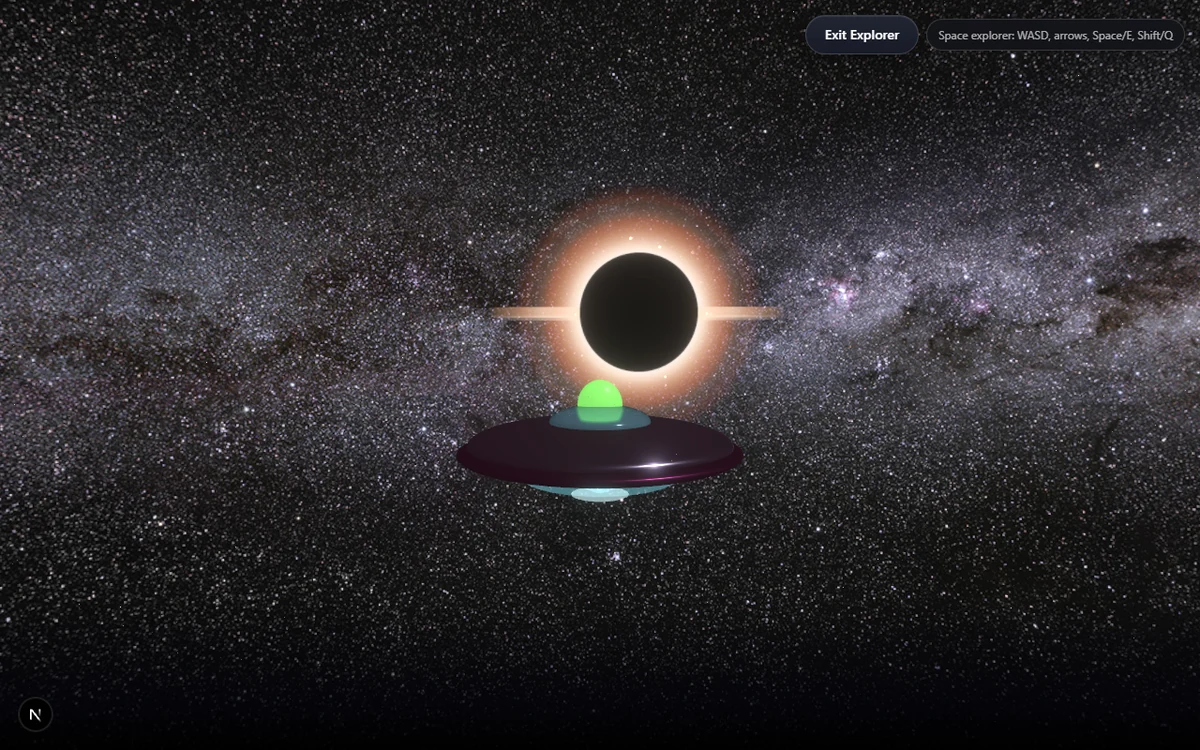
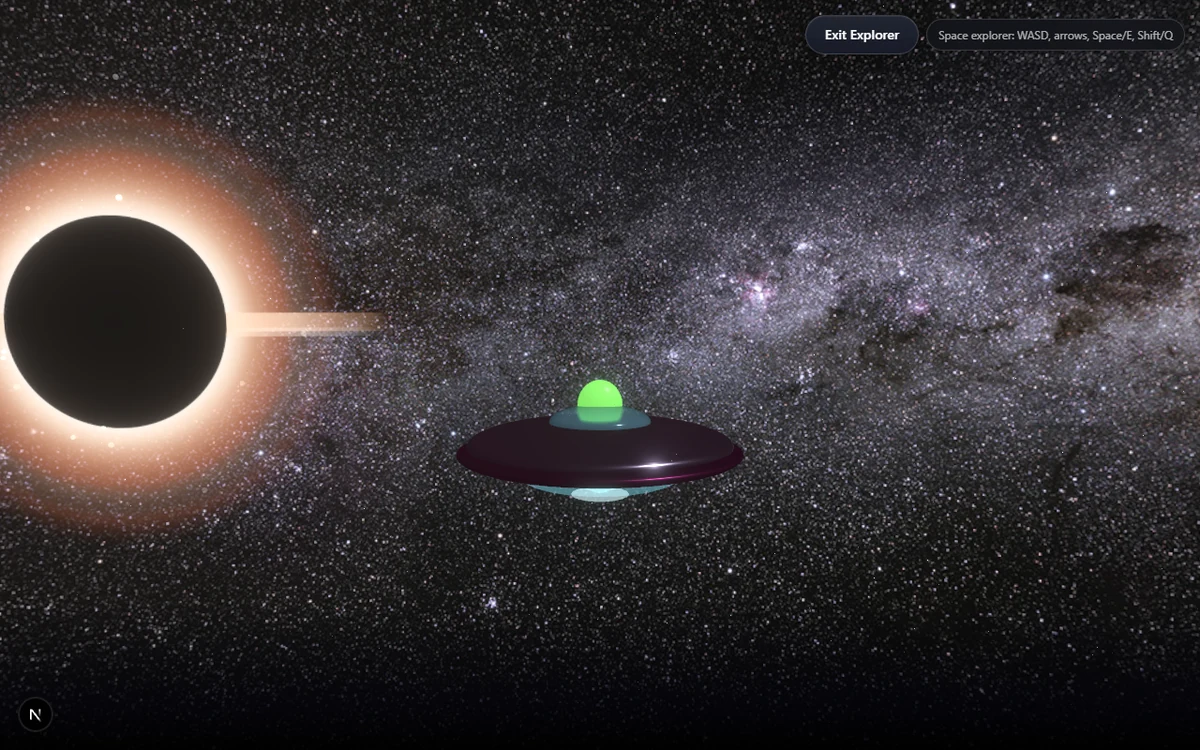
Calm the diagonals, drop the spread, widen the PROJECTS gaps, refresh Cloud Island
- 네 귀퉁이 카드가 대각으로 멀리 튀어 보여 옆 카드보다 덜 벌린다.
  펼친 덩어리를 통째로 아래로 내려 위쪽 빨간 띠와 96px 떨어진다.
- PROJECTS 섹션 위아래 여백을 84 / 96 으로 벌렸다.
- Cloud Island 네 장을 서로 다른 화면으로 갈았다. 겹치던 자리를
  행성을 눌러 그 계정의 스택과 카테고리 상세를 보는 화면으로 바꾸고,
  블랙홀은 화면 삼분의 일을 채울 만큼 가까이서 다시 찍었다.

diff --git a/components/portfolio.tsx b/components/portfolio.tsx
@@ -423,18 +423,20 @@ function StatusMeter({ kind, ongoing }: { kind: string; ongoing: boolean }) {
 
 /* 최종 위치는 화면 안(±50vw / ±50vh)에 머물면서 가운데(수상 목록) 를 비운다.
    번호가 붙은 카드는 01 02 / 03 04 로 읽히도록 네 모서리에 놓는다. */
-/* x 는 도면 가로의 %, y 는 짧은 쪽 화면의 %. 위쪽은 나브와 부딪히므로
-   가로로 더 벌리고 세로는 조금만 늘린다. */
+/* x 는 도면 가로의 %, y 는 짧은 쪽 화면의 %.
+   네 귀퉁이는 대각으로 멀리 튀어 보여 옆 카드보다 덜 벌린다. */
 const CFG = [
-  { sx: -8, sy: -10, sr: -18, x: 0, y: -31.5 },
-  { sx: 14, sy: -10, sr: 20, x: -34, y: -24 },
-  { sx: -16, sy: 0, sr: -4, x: -40, y: 0 },
-  { sx: 1, sy: -10, sr: -2, x: 34, y: -24 },
-  { sx: 18, sy: 1, sr: 6, x: 40, y: 0 },
-  { sx: -6, sy: 10, sr: 6, x: -34, y: 24 },
-  { sx: 8, sy: 7, sr: 3, x: 0, y: 31.5 },
-  { sx: 20, sy: 12, sr: -7, x: 34, y: 24 },
+  { sx: -8, sy: -10, sr: -18, x: 0, y: -29 },
+  { sx: 14, sy: -10, sr: 20, x: -29, y: -20 },
+  { sx: -16, sy: 0, sr: -4, x: -37, y: 0 },
+  { sx: 1, sy: -10, sr: -2, x: 29, y: -20 },
+  { sx: 18, sy: 1, sr: 6, x: 37, y: 0 },
+  { sx: -6, sy: 10, sr: 6, x: -29, y: 20 },
+  { sx: 8, sy: 7, sr: 3, x: 0, y: 29 },
+  { sx: 20, sy: 12, sr: -7, x: 29, y: 20 },
 ];
+/** 펼친 덩어리를 통째로 내리는 양(--sh 단위). 위쪽 빨간 띠와 떼어 놓는다 */
+const SPREAD_DY = 5;
 const clamp = (v: number) => Math.max(0, Math.min(1, v));
 
 const MARQUEE_ITEMS = ["AI", "BACKEND", "CLOUD", "DEVELOPER", "EMBEDDED"];
@@ -551,14 +553,15 @@ export default function Portfolio() {
         if (!el) return;
         const c = CFG[i % CFG.length];
         const tx = c.sx + (c.x - c.sx) * p;
-        const ty = c.sy + (c.y - c.sy) * p;
+        const ty = c.sy + (c.y - c.sy) * p + SPREAD_DY * p;
         el.style.transform =
           "translate(calc(-50% + var(--vw) * " + tx + "), calc(-50% + var(--sh) * " + ty + ")) rotate(" + c.sr * (1 - p) + "deg) scale(" + (0.82 + 0.18 * p) + ")";
       });
       const txt = spreadTextRef.current;
       if (txt) {
         txt.style.opacity = String(clamp((p - 0.25) / 0.45));
-        txt.style.transform = "scale(" + (0.9 + 0.1 * clamp((p - 0.2) / 0.7)) + ")";
+        txt.style.transform =
+          "translateY(calc(var(--sh) * " + SPREAD_DY * p + ")) scale(" + (0.9 + 0.1 * clamp((p - 0.2) / 0.7)) + ")";
       }
     };
     applySpread(0);
@@ -865,7 +868,7 @@ export default function Portfolio() {
       </section>
 
       {/* ── PROJECTS ── */}
-      <section id="work" style={{ maxWidth: 1280, margin: "0 auto", padding: "24px 24px 40px" }}>
+      <section id="work" style={{ maxWidth: 1280, margin: "0 auto", padding: "84px 24px 96px" }}>
         <div
           data-corridor
           className="corridor"
